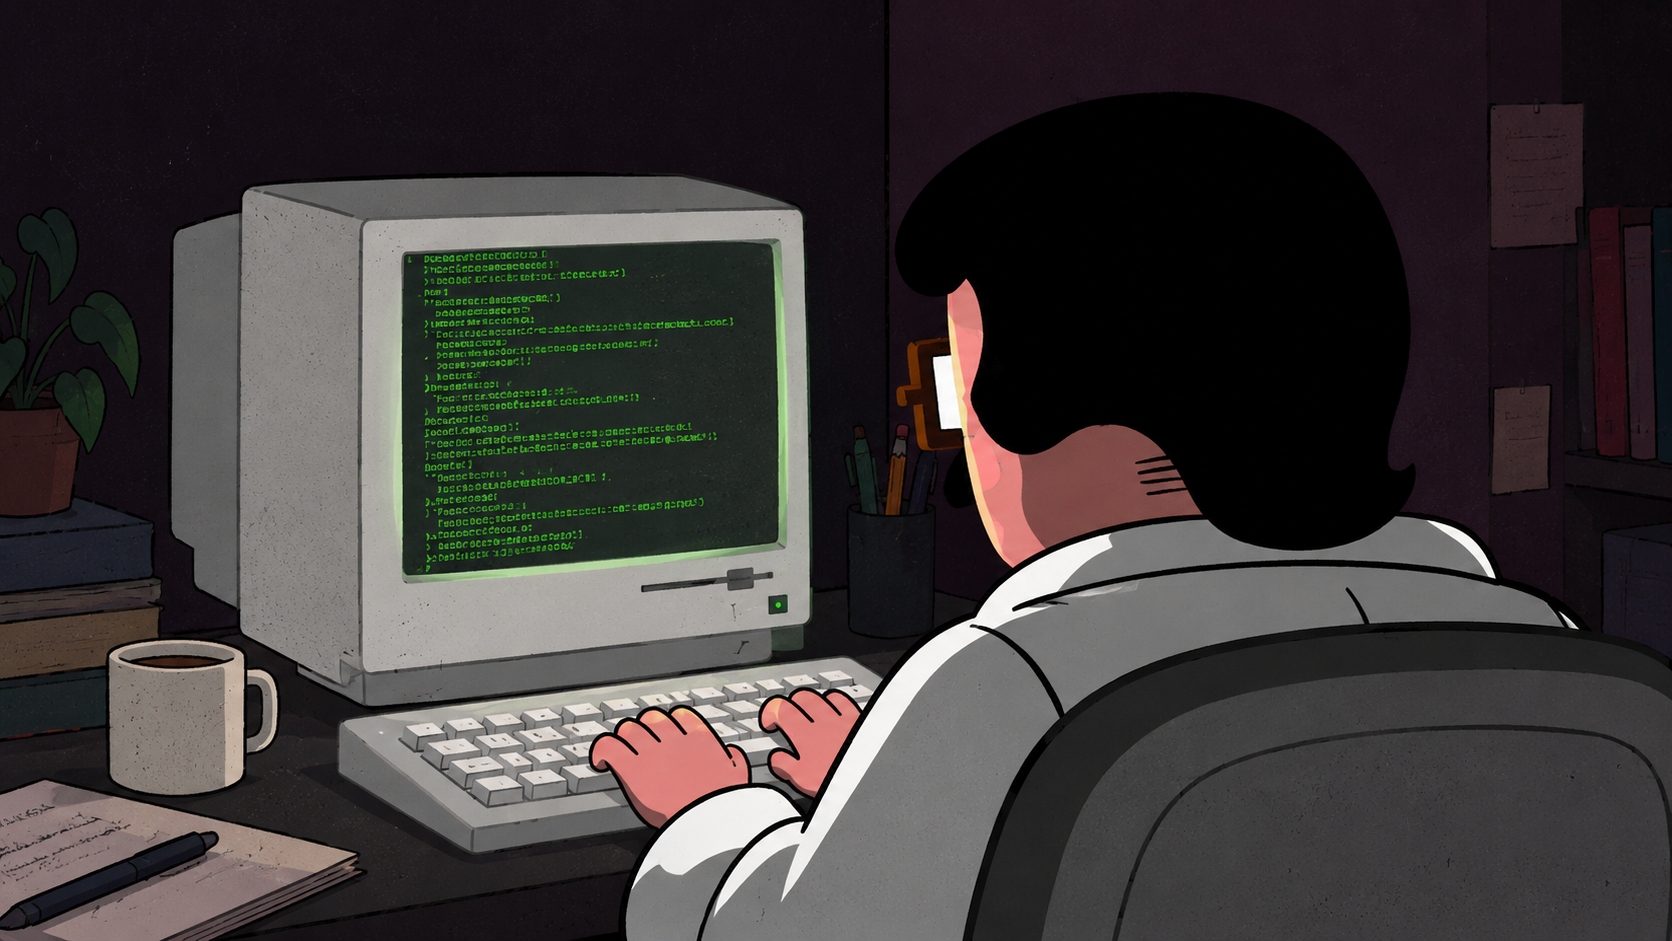
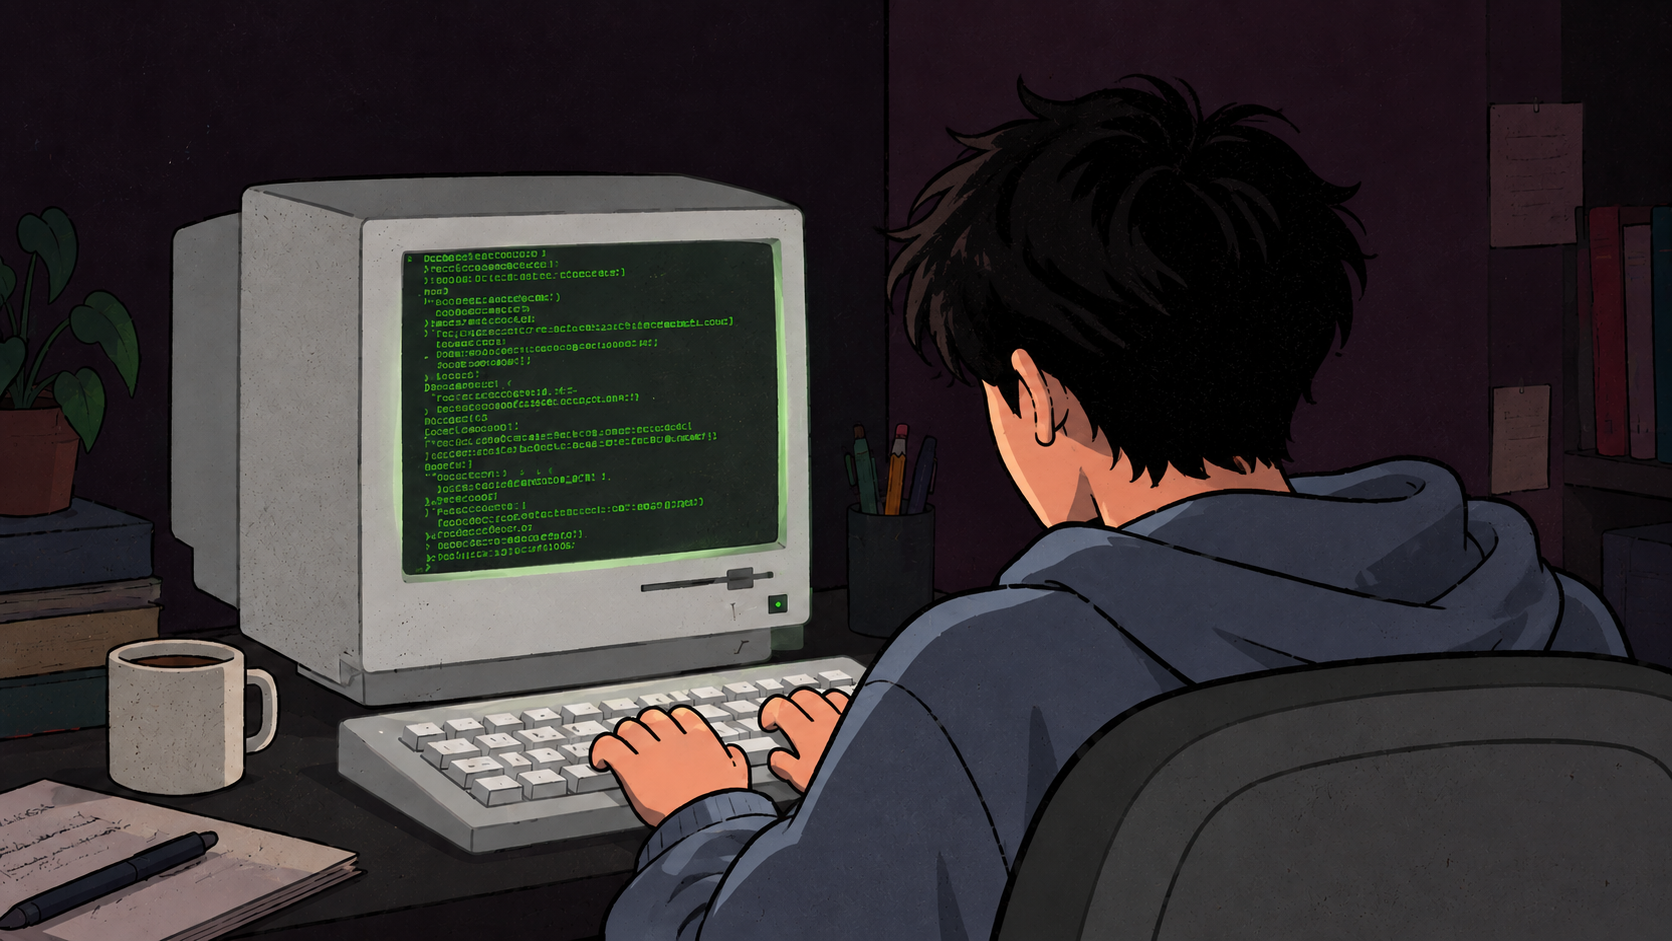
更换主页图片

diff --git a/WebCode/assets/images/visual-assets.md b/WebCode/assets/images/visual-assets.md
@@ -40,3 +40,10 @@ Use case: illustration-story. Asset type: square profile avatar for a personal a
 Generated with the built-in image_gen tool. The user supplied a retro animation screenshot as a style and composition reference. Used in the GitHub profile README; replaces banner.svg.
 
 Create a new original illustration for a GitHub profile README hero banner. Reference the user attached image's retro 1990s hand-drawn animation look and composition: a dark-haired young adult programmer seen from behind in three-quarter view, seated on the right at a desk, hands typing on a chunky pale gray keyboard, bulky vintage gray CRT computer on the left showing fine green terminal code. Dark muted charcoal and plum room, quiet late-night concentration, green screen glow, simple flat cel-shaded colors with strong hand-drawn black outlines and subtle analog film grain. Tight medium shot, screen and upper body fill the frame, horizontally wide approximately 16:9, no outer border. Character wears a light shirt, dark short hair, an ordinary desk chair. Match the restrained, slightly rough vintage animation still aesthetic rather than modern glossy digital art. No headings, no logos, no watermark, no slogans, no UI cards. Screen text just unobtrusive tiny code texture. This is a new illustration guided by the provided reference, not a webpage screenshot.
+
+
+### banner.png - student revision
+
+Edited with the built-in image_gen tool using the previous banner as the edit target.
+
+Prompt: Replace only the seated person with a youthful male university student about 20 years old: slim natural shoulders and neck, short slightly tousled black hair with visible textured strands, casual muted blue-gray hoodie instead of collared office clothing, no glasses or facial hair. Preserve the rear three-quarter view, natural typing hands, wide 16:9 composition, vintage cream CRT with green terminal glow, keyboard, desk, mug, notebook, plants, books and dark room. Preserve the dark palette, 1990s hand-drawn cel animation style, ink outlines and subtle film grain. A college student studying late, not a middle-aged office worker or child. No new text, logos or watermark.

diff --git a/README.md b/README.md
@@ -1,5 +1,5 @@
 <div align="center">
-<img src="./WebCode/assets/images/banner.png" width="50%" alt="复古动画风插画：深夜坐在老式电脑前编程的青年，屏幕泛着绿色代码光" />
+<img src="./WebCode/assets/images/banner.png?v=d79912922f8c" width="50%" alt="复古动画风插画：深夜坐在老式电脑前编程的青年，屏幕泛着绿色代码光" />
 
 <a href="https://github.com/Leon5428?tab=overview">
   <img src="./WebCode/assets/images/contributions.svg?v=96850101cf49" width="100%" alt="Leon5428 的 GitHub 贡献热力图，点击查看最新活动" />
